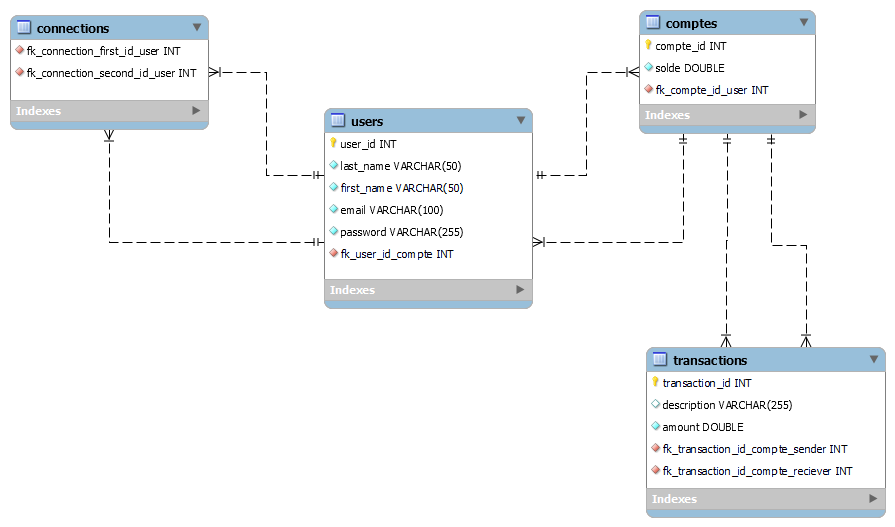
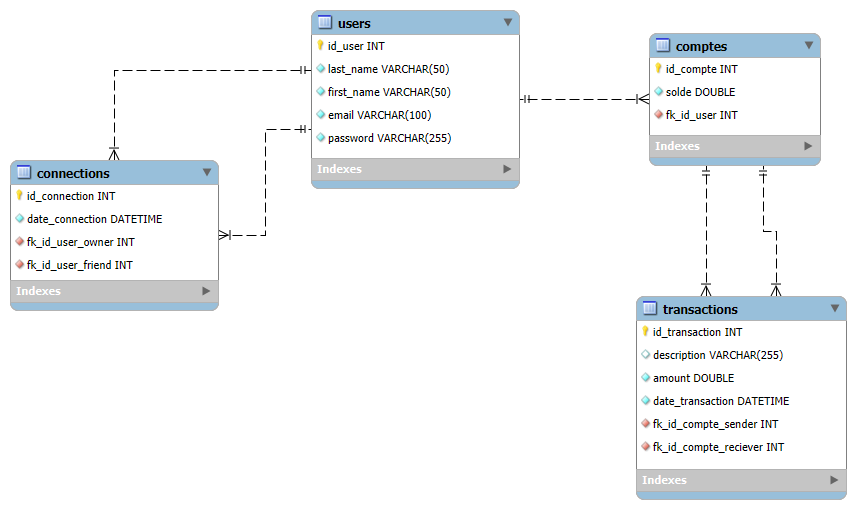
add entity with relations

diff --git a/src/main/java/com/paymybuddy/model/User.java b/src/main/java/com/paymybuddy/model/User.java
@@ -3,21 +3,23 @@ package com.paymybuddy.model;
 
 import jakarta.persistence.*;
 import lombok.AllArgsConstructor;
-import lombok.Builder;
 import lombok.Data;
 import lombok.NoArgsConstructor;
+
+
+import java.util.HashSet;
+import java.util.Set;
 
 @Entity
 @Table(name = "users")
 @Data
-@Builder
 @NoArgsConstructor
 @AllArgsConstructor
 public class User {
 
     @Id
     @GeneratedValue(strategy = GenerationType.AUTO)
-    @Column(name = "user_id")
+    @Column(name = "id_user")
     private int userId;
 
     @Column(name = "last_name")
@@ -30,6 +32,24 @@ public class User {
 
     private String password;
 
+    //relation between table  compte and user
+    @OneToMany(mappedBy = "user", // nom de l'attribut dans class Compte
+            cascade = CascadeType.ALL,
+            orphanRemoval = true,
+            fetch = FetchType.EAGER)
+    private Set<Compte> comptes = new HashSet<>();
 
+    //relation between table  user and connection
+    @OneToMany(mappedBy = "ownerUser",// nom de l'attribut dans class Connection
+            cascade = CascadeType.ALL,
+            orphanRemoval = true,
+            fetch = FetchType.EAGER)
+    private Set<Connection> ownerConnections = new HashSet<>();
+
+    @OneToMany(mappedBy = "friendUser",// nom de l'attribut dans class Connection
+            cascade = CascadeType.ALL,
+            orphanRemoval = true,
+            fetch = FetchType.EAGER)
+    private Set<Connection> friendConnections = new HashSet<>();
 
 }

diff --git a/src/main/java/com/paymybuddy/model/Compte.java b/src/main/java/com/paymybuddy/model/Compte.java
@@ -3,23 +3,42 @@ package com.paymybuddy.model;
 
 import jakarta.persistence.*;
 import lombok.AllArgsConstructor;
-import lombok.Builder;
 import lombok.Data;
 import lombok.NoArgsConstructor;
+
+import java.util.HashSet;
+import java.util.Set;
 
 @Entity
 @Table(name = "comptes")
 @Data
-@Builder
 @NoArgsConstructor
 @AllArgsConstructor
 public class Compte {
 
     @Id
     @GeneratedValue(strategy = GenerationType.AUTO)
-    @Column(name = "compte_id")
+    @Column(name = "id_compte")
     private int compteId;
 
     private double solde;
+
+    //relation between table compte and user
+    @ManyToOne
+    @JoinColumn(name = "fk_id_user")
+    private User user;
+
+    //relation between table compte and transaction
+    @OneToMany(mappedBy = "compteSender",// nom de l'attribut dans class Compte
+            cascade = CascadeType.ALL,
+            orphanRemoval = true,
+            fetch = FetchType.EAGER)
+    private Set<Transaction> compteSenders = new HashSet<>();
+
+    @OneToMany(mappedBy = "compteReciever",// nom de l'attribut dans class Compte
+            cascade = CascadeType.ALL,
+            orphanRemoval = true,
+            fetch = FetchType.EAGER)
+    private Set<Connection> compteReciever = new HashSet<>();
 
 }

diff --git a/src/main/java/com/paymybuddy/PaymybuddyApplication.java b/src/main/java/com/paymybuddy/PaymybuddyApplication.java
@@ -1,14 +1,32 @@
 package com.paymybuddy;
 
+import com.paymybuddy.model.User;
+import com.paymybuddy.service.UserService;
+import org.springframework.beans.factory.annotation.Autowired;
+import org.springframework.boot.CommandLineRunner;
 import org.springframework.boot.SpringApplication;
 import org.springframework.boot.autoconfigure.SpringBootApplication;
 
 import java.util.Optional;
 
 @SpringBootApplication
-public class PaymybuddyApplication{
+public class PaymybuddyApplication implements CommandLineRunner {
+
+	@Autowired
+	private UserService userService;
 
 	public static void main(String[] args) {
 		SpringApplication.run(PaymybuddyApplication.class, args);
+	}
+
+	@Override
+	public void run(String... args) throws Exception {
+//		Iterable<User> users = userService.getUsers();
+//		users.forEach(user -> System.out.println(user.getLastName()));
+
+		Optional<User> optionalUser = userService.getUserById(1);
+		User user1 = optionalUser.get();
+
+		//user1.getComptes().forEach(compte -> System.out.println("le solde de user1 est " + compte.getSolde()));
 	}
 }

diff --git a/src/main/java/com/paymybuddy/model/Connection.java b/src/main/java/com/paymybuddy/model/Connection.java
@@ -1,19 +1,35 @@
 package com.paymybuddy.model;
 
 
-import jakarta.persistence.Entity;
-import jakarta.persistence.Table;
+import jakarta.persistence.*;
 import lombok.AllArgsConstructor;
-import lombok.Builder;
 import lombok.Data;
 import lombok.NoArgsConstructor;
+
+import java.time.LocalDateTime;
 
 @Entity
 @Table(name = "connections")
 @Data
-@Builder
 @NoArgsConstructor
 @AllArgsConstructor
 public class Connection {
+
+    @Id
+    @Column(name = "id_connection")
+    @GeneratedValue(strategy = GenerationType.AUTO)
+    private int connectionId;
+
+    @Column(name = "date_connection")
+    private LocalDateTime dateConnection;
+
+    //relation between table connection and user
+    @ManyToOne
+    @JoinColumn(name = "fk_id_user_owner", nullable = false)
+    private User ownerUser;
+
+    @ManyToOne
+    @JoinColumn(name = "fk_id_user_friend", nullable = false)
+    private User friendUser;
 
 }

diff --git a/src/main/java/com/paymybuddy/model/Transaction.java b/src/main/java/com/paymybuddy/model/Transaction.java
@@ -6,6 +6,8 @@ import lombok.Builder;
 import lombok.Data;
 import lombok.NoArgsConstructor;
 
+import java.time.LocalDateTime;
+
 
 @Entity
 @Table(name = "transactions")
@@ -16,7 +18,7 @@ import lombok.NoArgsConstructor;
 public class Transaction {
 
     @Id
-    @Column(name = "transaction_id")
+    @Column(name = "id_transaction")
     @GeneratedValue(strategy = GenerationType.AUTO)
     private int transactionId;
 
@@ -25,4 +27,16 @@ public class Transaction {
 
     @Column(name = "amount")
     private double transactionAmount;
+
+    @Column(name = "date_transaction")
+    private LocalDateTime transactionDate;
+
+    //relation between table transaction and compte
+    @ManyToOne
+    @JoinColumn(name = "fk_id_compte_sender")
+    private Compte compteSender;
+
+    @ManyToOne
+    @JoinColumn(name = "fk_id_compte_reciever")
+    private Compte compteReciever;
 }

diff --git a/src/main/java/com/paymybuddy/service/UserService.java b/src/main/java/com/paymybuddy/service/UserService.java
@@ -1,0 +1,26 @@
+package com.paymybuddy.service;
+
+
+import com.paymybuddy.model.User;
+import com.paymybuddy.repository.UserRepository;
+import org.springframework.beans.factory.annotation.Autowired;
+import org.springframework.stereotype.Service;
+import org.springframework.transaction.annotation.Transactional;
+
+import java.util.Optional;
+
+@Service
+@Transactional
+public class UserService {
+
+    @Autowired
+    private UserRepository userRepository;
+
+    public Iterable<User> getUsers(){
+        return userRepository.findAll();
+    }
+
+    public Optional<User> getUserById(Integer id){
+        return userRepository.findById(id);
+    }
+}

diff --git a/src/main/java/com/paymybuddy/repository/ConnectionRepository.java b/src/main/java/com/paymybuddy/repository/ConnectionRepository.java
@@ -1,8 +1,10 @@
 package com.paymybuddy.repository;
 
+import com.paymybuddy.model.Connection;
+import org.springframework.data.repository.CrudRepository;
 import org.springframework.stereotype.Repository;
 
 
 @Repository
-public interface ConnectionRepository {
+public interface ConnectionRepository extends CrudRepository<Connection, Integer> {
 }

diff --git a/src/main/java/com/paymybuddy/service/TransactionService.java b/src/main/java/com/paymybuddy/service/TransactionService.java
@@ -1,0 +1,10 @@
+package com.paymybuddy.service;
+
+
+import org.springframework.stereotype.Service;
+import org.springframework.transaction.annotation.Transactional;
+
+@Service
+@Transactional
+public class TransactionService {
+}

diff --git a/src/main/java/com/paymybuddy/service/ConnectionService.java b/src/main/java/com/paymybuddy/service/ConnectionService.java
@@ -1,0 +1,10 @@
+package com.paymybuddy.service;
+
+
+import org.springframework.stereotype.Service;
+import org.springframework.transaction.annotation.Transactional;
+
+@Service
+@Transactional
+public class ConnectionService {
+}

diff --git a/src/main/java/com/paymybuddy/service/CompteService.java b/src/main/java/com/paymybuddy/service/CompteService.java
@@ -1,0 +1,10 @@
+package com.paymybuddy.service;
+
+
+import org.springframework.stereotype.Service;
+import org.springframework.transaction.annotation.Transactional;
+
+@Service
+@Transactional
+public class CompteService {
+}
